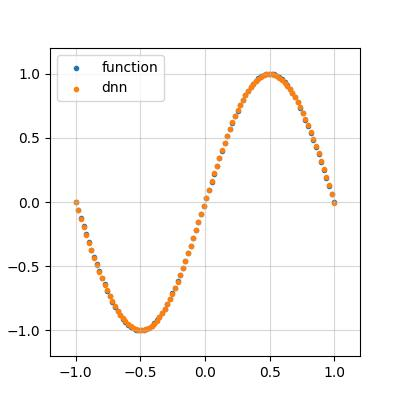
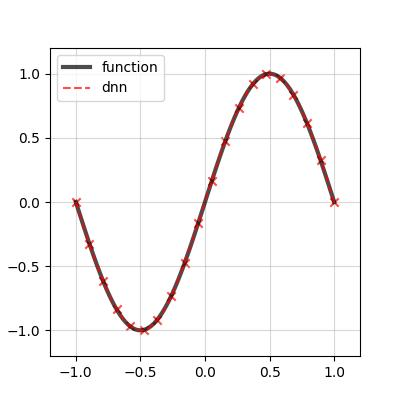
add code

Changed region(s): [[0.18, 0.15, 0.87, 0.84], [0.15, 0.21, 0.24, 0.24], [0.15, 0.15, 0.24, 0.18]]

diff --git a/00_tf2/main.py b/00_tf2/main.py
@@ -60,8 +60,8 @@ def main():
     # y_train = tf.sin(np.pi * x_train)
 
     # define model
-    act = "swish"
-    model = DNN(
+    act = "relu"
+    model_relu = DNN(
         x_train, y_train, 
         f_in, f_out, f_hid, depth, 
         w_init, b_init, act, 
@@ -70,16 +70,48 @@ def main():
     )
     # train
     with tf.device("/device:GPU:0"):
-        model.train(n_epc = int(1e4), n_btc = -1, c_tol = 1e-5)
+        model_relu.train(n_epc = int(1e4), n_btc = -1, c_tol = 1e-5)
     # infer
-    y_infer = model.infer(x_infer)
+    y_relu = model_relu.infer(x_infer)
+
+    # define model
+    act = "tanh"
+    model_tanh = DNN(
+        x_train, y_train, 
+        f_in, f_out, f_hid, depth, 
+        w_init, b_init, act, 
+        lr, opt, f_scl, 
+        d_type, r_seed
+    )
+    # train
+    with tf.device("/device:GPU:0"):
+        model_tanh.train(n_epc = int(1e4), n_btc = -1, c_tol = 1e-5)
+    # infer
+    y_tanh = model_tanh.infer(x_infer)
+
+    # define model
+    act = "swish"
+    model_swish = DNN(
+        x_train, y_train, 
+        f_in, f_out, f_hid, depth, 
+        w_init, b_init, act, 
+        lr, opt, f_scl, 
+        d_type, r_seed
+    )
+    # train
+    with tf.device("/device:GPU:0"):
+        model_swish.train(n_epc = int(1e4), n_btc = -1, c_tol = 1e-5)
+    # infer
+    y_swish = model_swish.infer(x_infer)
 
     # compare
     if p_id == 0:
         plt.figure(figsize=(4, 4))
-        plt.plot(x, y, label="function", alpha=.7, linestyle="-", c="k")
-        plt.plot(x_infer, y_infer, label="dnn", alpha=.7, linestyle="--", c="r")
+        plt.plot(x, y, label="function", alpha=.7, linestyle="-", lw = 3, c="k")
         plt.scatter(x_train, y_train, alpha=.7, marker="x", c="r")
+        plt.plot(x_infer, y_relu, label="relu", alpha=.7, linestyle="--")
+        plt.plot(x_infer, y_tanh, label="tanh", alpha=.7, linestyle="--")
+        plt.plot(x_infer, y_swish, label="swish", alpha=.7, linestyle="--")
         plt.xlim(-1.2, 1.2)
         plt.ylim(-1.2, 1.2)
         plt.grid(alpha=.5)
@@ -87,9 +119,11 @@ def main():
         plt.savefig("./figures/problem" + str(p_id) + ".jpg")
     elif p_id == 1:
         plt.figure(figsize=(4, 4))
-        plt.plot(x, y, label="function", alpha=.7, linestyle="-", c="k")
-        plt.plot(x_infer, y_infer, label="dnn", alpha=.7, linestyle="--", c="r")
+        plt.plot(x, y, label="function", alpha=.7, linestyle="-", lw = 3, c="k")
         plt.scatter(x_train, y_train, alpha=.7, marker="x", c="r")
+        plt.plot(x_infer, y_relu, label="relu", alpha=.7, linestyle="--")
+        plt.plot(x_infer, y_tanh, label="tanh", alpha=.7, linestyle="--")
+        plt.plot(x_infer, y_swish, label="swish", alpha=.7, linestyle="--")
         plt.xlim(-1.2, 1.2)
         plt.ylim(-1.2, 1.2)
         plt.grid(alpha=.5)
@@ -97,11 +131,13 @@ def main():
         plt.savefig("./figures/problem" + str(p_id) + ".jpg")
     elif p_id == 2:
         plt.figure(figsize=(4, 4))
-        plt.plot(x, y, label="function", alpha=.7, linestyle="-", c="k")
-        plt.plot(x_infer, y_infer, label="dnn", alpha=.7, linestyle="--", c="r")
+        plt.plot(x, y, label="function", alpha=.7, linestyle="-", lw = 3, c="k")
         plt.scatter(x_train, y_train, alpha=.7, marker="x", c="r")
+        plt.plot(x_infer, y_relu, label="relu", alpha=.7, linestyle="--")
+        plt.plot(x_infer, y_tanh, label="tanh", alpha=.7, linestyle="--")
+        plt.plot(x_infer, y_swish, label="swish", alpha=.7, linestyle="--")
         plt.xlim(-1.2, 1.2)
-        plt.ylim(-1.2, 1.2)
+        plt.ylim(-2.5, 2.5)
         plt.grid(alpha=.5)
         plt.legend(loc="upper left")
         plt.savefig("./figures/problem" + str(p_id) + ".jpg")
